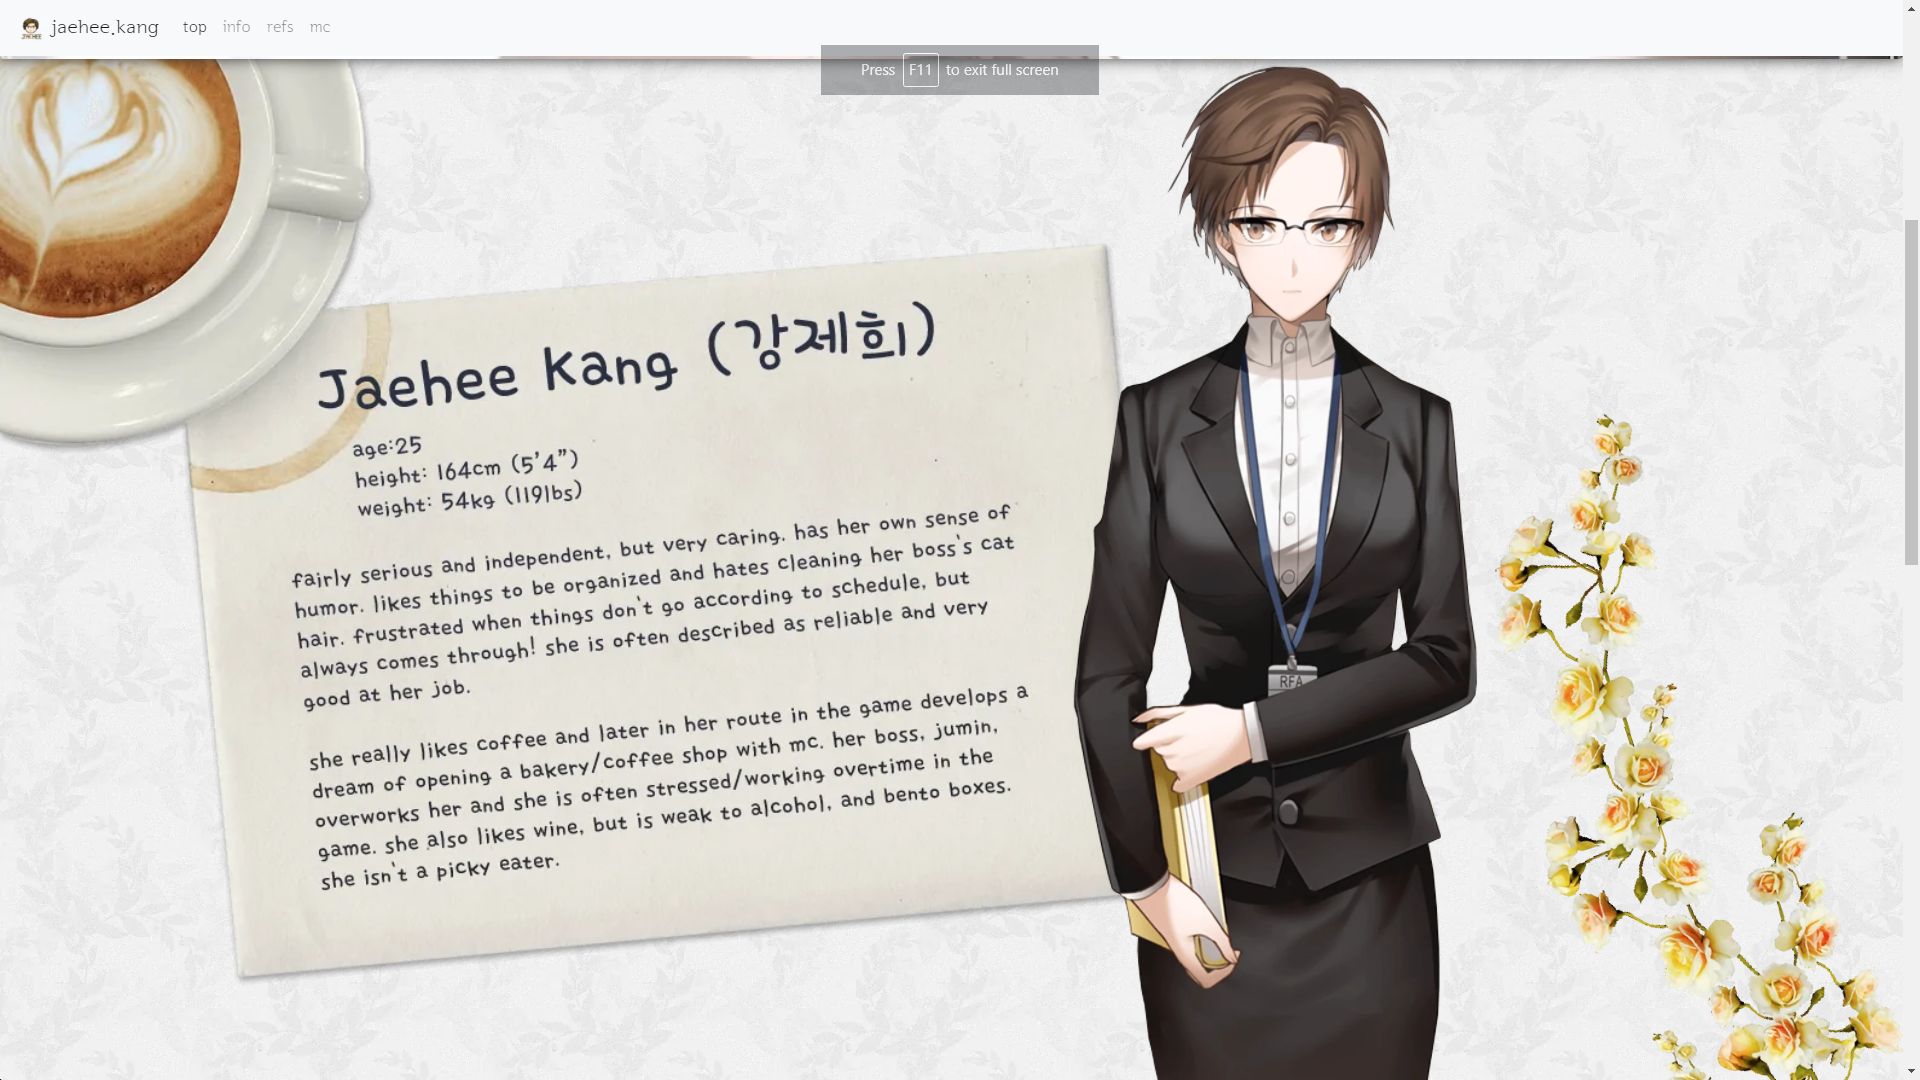
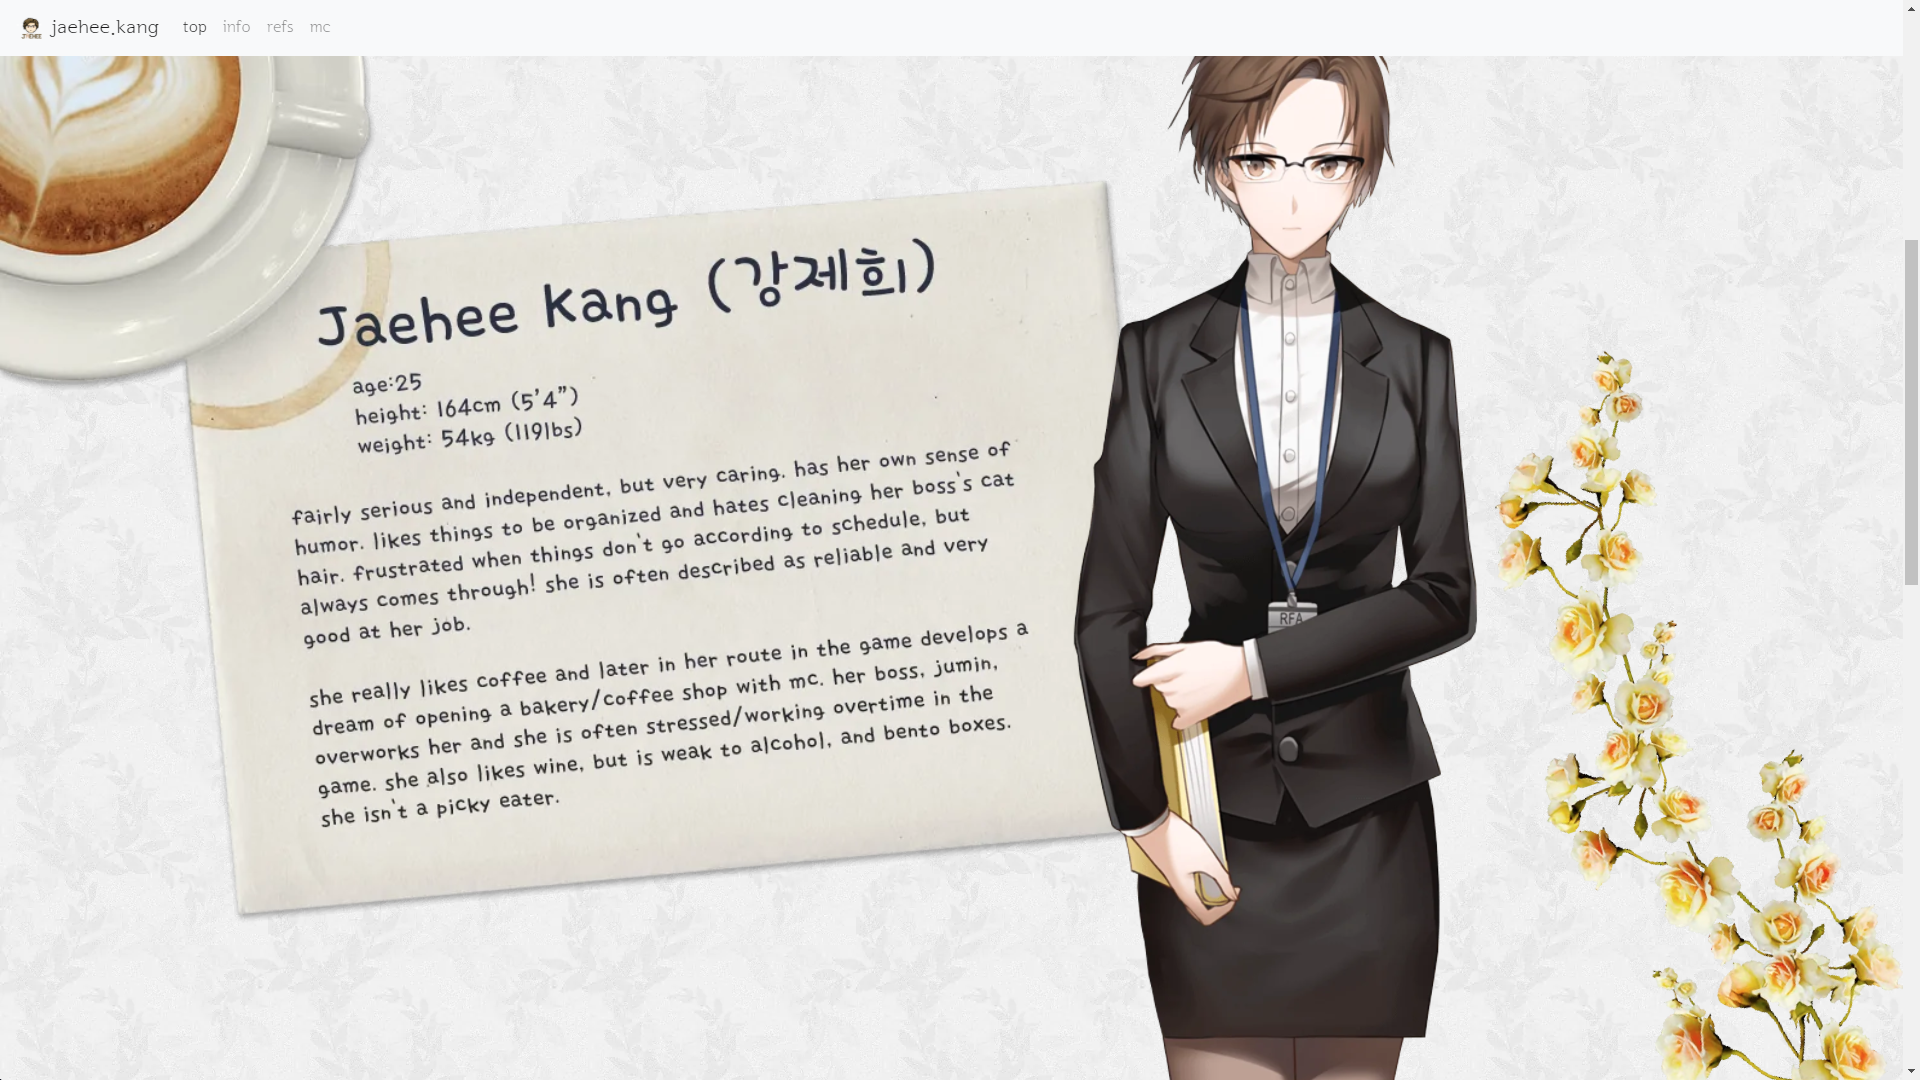
update

Changed region(s): [[0.0, 0.0306, 1.0, 1.0], [0.9688, 0.5194, 1.0, 0.55]]

diff --git a/style.css b/style.css
@@ -23,6 +23,7 @@
 }
 
 html {
+  -webkit-transform: translate3d(0,0,0);
   overflow-x: hidden;
   max-width: 100%;
   cursor: default;
@@ -129,6 +130,11 @@ h1 {
   background-size: cover;
   background-attachment: fixed;
   background-position: center center;
+}
+
+#header, #refs, #mc {
+  transform:translatez(0);
+  -webkit-transform:translatez(0);
 }
 
 #info img {
